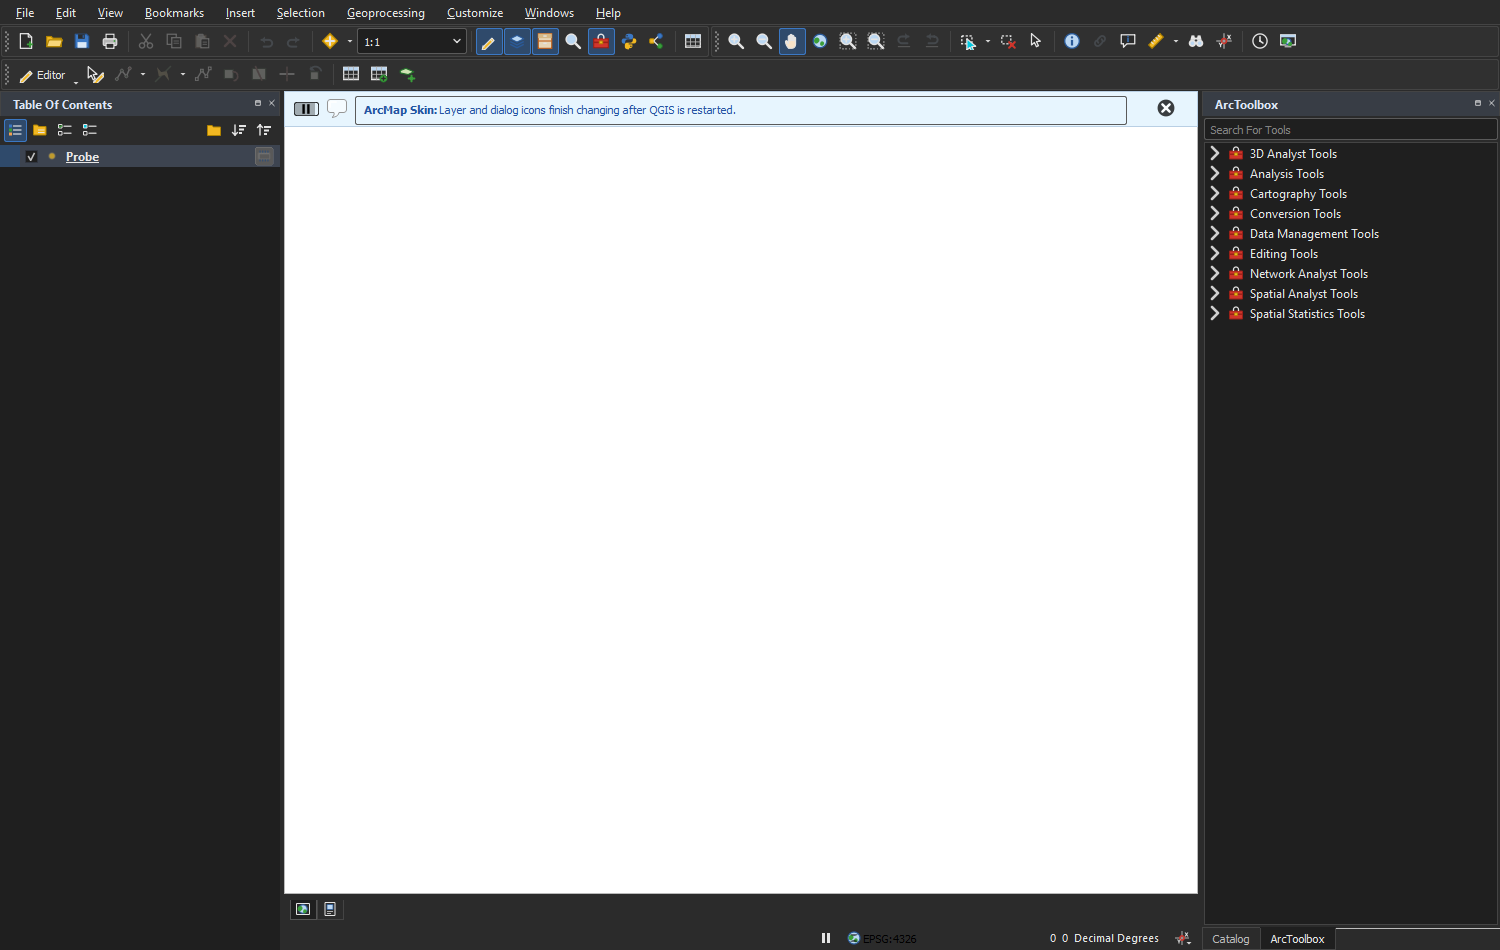
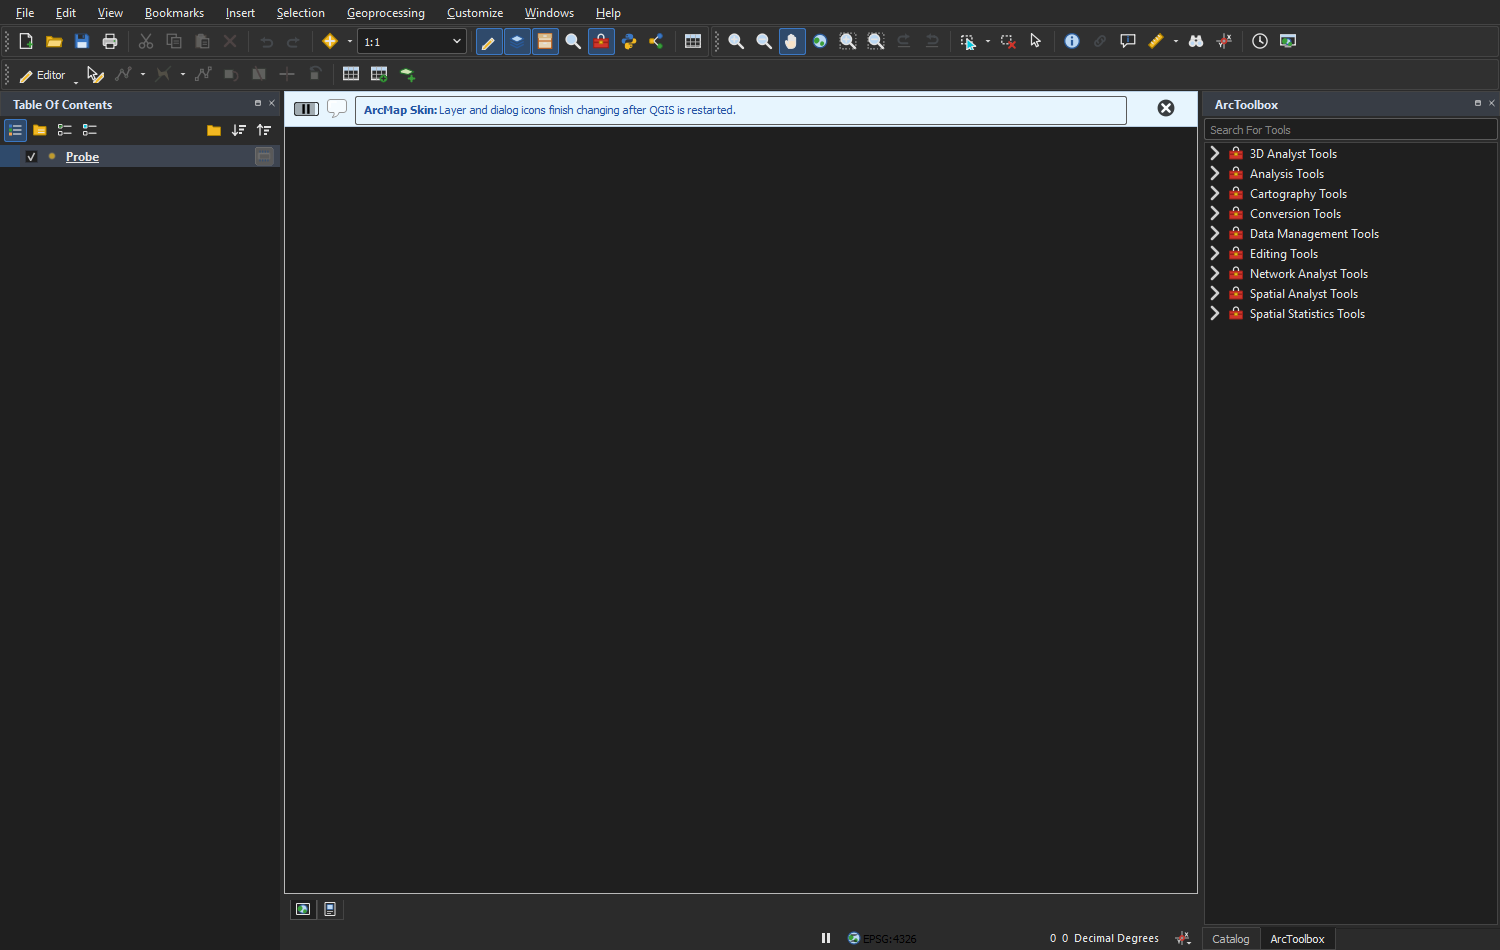
0.2.3: dark theme finishes the picture
- Dark map canvas while the project keeps the default white background
  (re-applied after a project is read; undone with the look)
- Dark native title bar on Windows (DwmSetWindowAttribute), undone with the look
- Tab bars and the Catalog tab strip take the window colour (no white strip)

diff --git a/arcmap_skin/plugin.py b/arcmap_skin/plugin.py
@@ -39,7 +39,7 @@ from . import (
 )
 from .actions import custom_actions
 from .progress import ProgressBox, weighted
-from .util import SETTINGS_GROUP, Changes, alive, top_toolbars, tr, ui_icon
+from .util import SETTINGS_GROUP, Changes, alive, set_dark_title_bar, top_toolbars, tr, ui_icon
 
 KEY_ENABLED = SETTINGS_GROUP + "/enabled"
 KEY_ORIGINAL_STATE = SETTINGS_GROUP + "/original_state"
@@ -362,6 +362,42 @@ class ArcMapSkinPlugin:
         self.changes.set(win, "documentMode", True)
         # Compact ArcMap-size toolbar icons.
         self.changes.set(win, "iconSize", QSize(18, 18))
+        if skin_settings.theme() == "arcmap_dark":
+            self._apply_dark_extras()
+
+    def _apply_dark_extras(self):
+        """Dark theme: a dark map canvas while the project uses the default
+        white one, and a dark native title bar on Windows. Both are undone
+        with the rest of the look."""
+        from qgis.core import QgsProject
+        from qgis.PyQt.QtGui import QColor
+
+        canvas = self.iface.mapCanvas()
+        dark = QColor("#1f1f1f")
+
+        def is_default(color):
+            return color.lightness() > 200
+
+        if is_default(canvas.canvasColor()):
+            self.changes.set(canvas, "canvasColor", dark)
+
+        def darken_after_read(*_):
+            # QGIS applies the project's background colour from the same
+            # signal; run after it so the default white turns dark again.
+            QTimer.singleShot(0, lambda: alive(canvas) and is_default(canvas.canvasColor()) and canvas.setCanvasColor(dark))
+
+        project = QgsProject.instance()
+        project.readProject.connect(darken_after_read)
+
+        def undo():
+            try:
+                project.readProject.disconnect(darken_after_read)
+            except (TypeError, RuntimeError):
+                pass
+
+        self.changes.add(undo)
+        set_dark_title_bar(self.win, True)
+        self.changes.add(lambda: set_dark_title_bar(self.win, False))
 
     def _apply_layout(self):
         """Place toolbars and panes: saved skin layout, or ArcMap defaults."""

diff --git a/arcmap_skin/util.py b/arcmap_skin/util.py
@@ -7,6 +7,7 @@ reverse, so QGIS comes back exactly as it was.
 """
 
 import os
+import sys
 import traceback
 
 from qgis.PyQt import sip
@@ -32,6 +33,26 @@ SETTINGS_GROUP = "arcmap_skin"
 def tr(text):
     """Translate ``text`` in the ArcMapSkin context."""
     return QCoreApplication.translate("ArcMapSkin", text)
+
+
+def set_dark_title_bar(widget, on):
+    """Windows 10/11: paint a top-level window's native title bar dark (or light again).
+
+    Uses DwmSetWindowAttribute(DWMWA_USE_IMMERSIVE_DARK_MODE); a no-op on
+    other platforms or when the attribute is unsupported.
+    """
+    if sys.platform != "win32" or not alive(widget):
+        return
+    try:
+        import ctypes
+
+        hwnd = int(widget.winId())
+        value = ctypes.c_int(1 if on else 0)
+        for attribute in (20, 19):  # 19 on Windows 10 builds before 20H1
+            if ctypes.windll.dwmapi.DwmSetWindowAttribute(hwnd, attribute, ctypes.byref(value), ctypes.sizeof(value)) == 0:
+                break
+    except (OSError, AttributeError, RuntimeError, ValueError) as exc:
+        log_ignored("dark title bar", exc)
 
 
 def log_ignored(what, exc):

diff --git a/arcmap_skin/panes.py b/arcmap_skin/panes.py
@@ -196,6 +196,7 @@ def _dress_catalog(changes, dock, actions):
     if props is not None and old is not None and not dock.property("arcmapCatalogTabs"):
         dock.setProperty("arcmapCatalogTabs", True)
         container = QWidget(dock)
+        container.setObjectName("ArcMapCatalogTabsBox")
         layout = QVBoxLayout(container)
         layout.setContentsMargins(0, 0, 0, 0)
         layout.setSpacing(0)

diff --git a/scripts/validate.py b/scripts/validate.py
@@ -86,4 +86,4 @@ def report(errors, warnings, summary=""):
 
 
 if __name__ == "__main__":
-    sys.exit(main(sys.argv[1] if len(sys.argv) > 1 else "dist/arcmap_skin-0.2.2.zip"))
+    sys.exit(main(sys.argv[1] if len(sys.argv) > 1 else "dist/arcmap_skin-0.2.3.zip"))

diff --git a/README.md b/README.md
@@ -56,7 +56,7 @@ from QGIS's own icons (GPL).
 | Catalog tabs | Contents / Preview / Description tabs over the Catalog tree, as in ArcCatalog. |
 | Symbol Selector | ArcMap wording on QGIS's symbol selector (full gallery, Properties, Save As…). |
 | Settings page | *Customize ▸ ArcMap Skin Options…* opens its own window (also available as a page in QGIS Options): switch each feature on or off, choose the light or dark ArcMap theme, start-up behaviour. |
-| Dark theme | ArcMap (dark): dark palette with light icon variants. |
+| Dark theme | ArcMap (dark): dark palette, light icon variants, dark map canvas and Windows title bar. |
 | Languages | English, Arabic, Turkish, French and Spanish (`scripts/i18n.py` builds the `.qm` without Qt tools). |
 | Quality | GitHub Actions run pyflakes, Bandit (the plugins.qgis.org scanner), the unit tests and the zip validator on every push; a tag `vX.Y.Z` builds and publishes the release zip. A Qt5/Qt6 lint test keeps the sources QGIS 4 compatible. |
 
